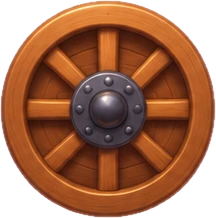
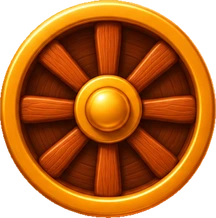
보송 그림체를 모두에게 기본 적용(?fluffy=0 으로 예전 그림) / 기본 대포를 검정+금장으로, 낚시 그림자에 꼬리, 수족관은 전체 보기로 시작
Claude-Session: https://claude.ai/code/session_015t7mwg1NEPVKJN39Z7Zz4S

diff --git a/js/aquarium.js b/js/aquarium.js
@@ -62,11 +62,11 @@ export function openAquarium(o) {
 
   function shuffle(a) { for (let i = a.length - 1; i > 0; i--) { const j = Math.floor(Math.random() * (i + 1)); [a[i], a[j]] = [a[j], a[i]]; } return a; }
   // 화면 가로에 6m(작은 수족관은 전체)가 들어오는 비율이 기본(×1). －로 줄이면 수족관 전체, ＋로 키우면 작은 물고기까지 또렷하게
-  let base = 60, zMin = 1;
+  let base = 60, zMin = 1, fitAll = true; // 들어오면 수족관 전체가 한눈에 보이게 시작(초급·중급·고급 모두)
   function layout(keep) { const T = TANKS[tank], vw = Math.max(200, root.clientWidth - 16 - 18), cx = keep ? (view.scrollLeft + view.clientWidth / 2) / (W * ppm) : 0.5, cy = keep ? (view.scrollTop + view.clientHeight / 2) / (H * ppm) : 0.5;
     // 가로 화면 전용: 수족관 높이를 화면 높이에 맞춘다(작은 수족관은 작게 보여서 크기 차이가 그대로 느껴진다)
     const avail = Math.max(140, root.clientHeight - 24 - room.clientHeight + 10); view.style.height = avail + 'px'; // 위 버튼줄 자리까지 전부 수족관
-    W = T.w; H = T.h; base = Math.min(avail / T.v, vw / Math.min(W, 2.2)); zMin = Math.min(1, avail / (H * base)); // 화면에는 v미터 높이가 보이고 그 위는 위로 밀어서 본다. 가장 작게 줄이면 높이 전체가 한눈에
+    W = T.w; H = T.h; base = Math.min(avail / T.v, vw / Math.min(W, 2.2)); zMin = Math.min(1, avail / (H * base)); if (fitAll) { fitAll = false; zoom = zMin; } // 화면에는 v미터 높이가 보이고 그 위는 위로 밀어서 본다. 가장 작게 줄이면 높이 전체가 한눈에
     ppm = base * zoom; world.style.width = W * ppm + 'px'; world.style.height = H * ppm + 'px'; world.style.marginTop = Math.max(0, view.clientHeight - H * ppm) + 'px'; view.parentNode.style.width = Math.min(vw, W * ppm) + 18 + 'px'; // 작은 수족관은 유리도 작게
     const seg = H * ppm * (456 / 362), side = H * ppm * (360 / 362), n = Math.max(1, Math.round((W * ppm - 2 * side) / seg)), mids = n % 2 ? n : n + 1;
     // 물 배경: 가운데는 이음매 없이 이어지는 물 그림을 옆으로 반복, 양 끝에 산호 그림을 겹쳐 스르르 이어 붙인다
@@ -81,7 +81,7 @@ export function openAquarium(o) {
   // 렉 줄이기: 크기는 수족관 비율이 바뀔 때만 한 번 정하고, 앞뒤 크기 변화는 transform scale로만(다시 그리지 않음)
   function sizeFish(f) { const w = f.len * ppm / FISH_FILL; if (Math.abs(w - (f.lw || 0)) < 0.6) return; f.lw = w; f.el.style.width = w + 'px'; f.el.style.height = w * 2 / 3 + 'px'; f.zz.style.fontSize = Math.max(12, Math.min(40, w * 0.18)) + 'px'; f.tag.style.fontSize = Math.max(10, Math.min(18, w * 0.12)) + 'px'; }
   function build(list, dlist) {
-    layer.replaceChildren(); decos = []; editing = false; root.classList.remove('edit'); [...tabs.children].forEach(b => b.classList.toggle('on', +b.dataset.t === tank)); zoom = 1;
+    layer.replaceChildren(); decos = []; editing = false; root.classList.remove('edit'); [...tabs.children].forEach(b => b.classList.toggle('on', +b.dataset.t === tank)); zoom = 1; fitAll = true;
     const T = TANKS[tank]; W = T.w; H = T.h;
     fish = list.map(d => makeFish(d)).filter(Boolean);
     W = T.w; H = T.h; (dlist || []).forEach(d => makeDeco(d));

diff --git a/js/fishing.js b/js/fishing.js
@@ -151,7 +151,8 @@ export function openFishing(o) {
   const tipAt = () => { const r = rl.getBoundingClientRect(), t = rodTip.getBoundingClientRect(); return r.width ? [(t.left - r.left) / r.width * 100, (t.top - r.top) / r.height * 100] : [34, 34]; };
   let fx = 60, fb = 10, ftaut = false; const drawLine = () => { if (rl.style.display === 'none') return; const [sx, sy] = tipAt(), x = fx, y = 92 - fb, sag = ftaut ? 2 : 10 + Math.abs(x - sx) * 0.22; rl.firstChild.firstChild.setAttribute('d', `M${sx.toFixed(2)} ${sy.toFixed(2)} Q${((sx + x) / 2).toFixed(2)} ${((sy + y) / 2 + sag).toFixed(2)} ${x} ${y}`); };
   const setFloat = (x, b = 10, taut = false) => { fx = x; fb = b; ftaut = taut; float.style.left = hook.style.left = mark.style.left = x + '%'; float.style.bottom = b + '%'; drawLine(); };
-  const shadow = () => `<svg viewBox="0 0 120 80"><ellipse cx="60" cy="40" rx="${cur.f.pearl ? 20 : 34 + Math.min(20, cur.d * 2)}" ry="${cur.f.pearl ? 16 : 14 + cur.d}" fill="${zone === 3 ? 'rgba(170,215,255,.42)' : 'rgba(20,40,80,.55)'}"/></svg>`;
+  const shadow = () => { const rx = cur.f.pearl ? 20 : 34 + Math.min(20, cur.d * 2), ry = cur.f.pearl ? 16 : 14 + cur.d, fill = zone === 3 ? 'rgba(170,215,255,.42)' : 'rgba(20,40,80,.55)', tx = 60 + rx - 3; // 그림자에 꼬리지느러미(진주는 꼬리 없음)
+    return `<svg viewBox="0 0 120 80" style="overflow:visible"><ellipse cx="60" cy="40" rx="${rx}" ry="${ry}" fill="${fill}"/>${cur.f.pearl ? '' : `<path class="fs-tail" style="transform-origin:${tx}px 40px" d="M${tx} 40 q${rx * 0.25} -${ry * 0.2} ${rx * 0.55} -${ry * 1.05} q-${rx * 0.12} ${ry * 1.05} 0 ${ry * 2.1} q-${rx * 0.3} -${ry * 0.85} -${rx * 0.55} -${ry * 1.05}z" fill="${fill}"/>`}</svg>`; };
   const K = () => Math.max(0, Math.min(4, rodT() - zone + 2)), BRK = () => D_BRK[K()]; let strikes = 0; const lim = () => strikesOf(rodT(), zone), drawPips = on => { pipsEl.replaceChildren(...(on ? Array.from({ length: lim() }, (_, k) => h('i', { class: k < lim() - strikes ? '' : 'off' })) : [])); };
   const say = (t, cls = '') => { msg.className = 'fs-msg ' + cls; msg.textContent = t; };
   const drawInfo = () => { const b = o.bag(), r = rod(), pb = zone === 3 && b.pboost && b.pboost.at ? b.pboost : null; info.textContent = r ? `${r.name.slice(0, 2)} ${b.rodD || 0}/${r.dur} · ${BAIT_NAME[zone]} ${b[BAIT_KEY[zone]] || 0}${pb ? ` · 🦪 ${10 - (pb.k || 0)}번 안에 진주` : ''}` : '낚싯대 없음'; if (charmB) charmB.hidden = !(zone === 3 && !o.trial && (b.pcharm || 0) >= 3 && !pb); };

diff --git a/js/fluffy.js b/js/fluffy.js
@@ -1,7 +1,8 @@
 // 보송 그림체(새 스킨): 카피·동물을 그림 파일로 바꿔 그린다. 시험판: 주소에 ?fluffy=1 이면 켜지고(기억됨), ?fluffy=0 이면 꺼진다
 const Q = new URLSearchParams(location.search).get('fluffy');
-try { if (Q === '1') localStorage.setItem('capy-fluffy', '1'); if (Q === '0') localStorage.removeItem('capy-fluffy'); } catch (e) { /* 저장 못 하면 이번만 */ }
-let on = Q === '1'; try { on = on || (Q !== '0' && localStorage.getItem('capy-fluffy') === '1'); } catch (e) { /* 무시 */ }
+// 이제 모두에게 기본으로 켜져 있다. 예전 그림으로 보려면 ?fluffy=0 (기억됨), 되돌리려면 ?fluffy=1
+try { if (Q === '1') localStorage.setItem('capy-fluffy', '1'); if (Q === '0') localStorage.setItem('capy-fluffy', '0'); } catch (e) { /* 저장 못 하면 이번만 */ }
+let on = Q !== '0'; try { if (Q == null && localStorage.getItem('capy-fluffy') === '0') on = false; } catch (e) { /* 무시 */ }
 export const FLUFFY = on;
 if (on && typeof document !== 'undefined') document.documentElement.classList.add('fluffy'); // 배경 그림은 CSS에서 이 표시를 보고 바꾼다
 const DIR = 'img/fl/';

diff --git a/css/app.css b/css/app.css
@@ -2338,3 +2338,4 @@ img.kb-sic { width: 30px; height: 30px; object-fit: contain; display: block; mar
 /* 농장에서 스쿠터를 타고 왼쪽으로 갈 때: 캐릭터만 뒤집히던 것을 스쿠터째 뒤집는다 */
 .fm-me.scoot.left .sc-rig { transform: scale(-.79, .79); margin-left: 0; margin-right: -20px; }
 .fm-me.scoot.left svg { transform: none; } .fm-me.scoot.walk svg { animation: none; }
+.fs-tail { animation: fsTail .5s ease-in-out infinite alternate; } @keyframes fsTail { from { rotate: -14deg; } to { rotate: 14deg; } }
